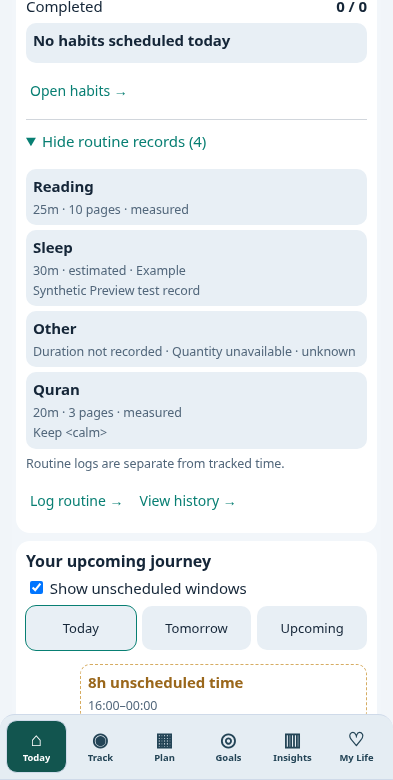
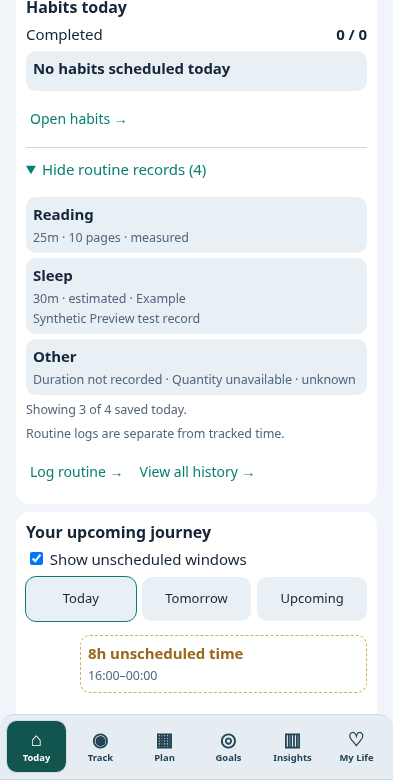
Make routine history accessible and readable

diff --git a/index.html b/index.html
@@ -3555,8 +3555,28 @@ $('scheduleForm').addEventListener('submit',addSchedule);$('scheduleList').addEv
   const plan=data.schedule.find(x=>String(x.id)===String(b.dataset.scheduleId));if(!plan)return;
   b.disabled=true;try{const result=await window.lifeosPlanSkip(String(plan.id),JSON.stringify(plan));$('scheduleAlert').textContent=result?.message||'Skip was not saved.';if(b.isConnected&&!result?.committed&&!result?.stale)b.disabled=false}catch(error){$('scheduleAlert').textContent='Skip could not be confirmed: '+String(error?.message||error);if(b.isConnected)b.disabled=false}
  }else scheduleAction(b.dataset.scheduleAct,b.dataset.scheduleId);
-});$('scheduleDay').addEventListener('change',renderSchedule);$('scheduleDay').value=localDate(now());$('scheduleStart').value=toInput(now()+3600000);$('scheduleEnd').value=toInput(now()+7200000);setInterval(checkScheduleReminders,30000);checkScheduleReminders();function renderPersonalLogs(){ensureModules();const list=(data.personalLogs||[]).filter(x=>x&&typeof x==='object');const today=localDate(now());const week=localDate(now()-6*86400000);const stats=window.LifeOSPersonalActivities.summary(list,week,today);$('personalLogSummary').textContent=`Last 7 dates: ${stats.records} logs · ${Object.entries(stats.byCategory).map(([name,v])=>name+': '+v.records).join(' · ')||'No records'}`;const progress=window.LifeOSPersonalProgress.summarize(list,week,today);const sleep=progress.sleep;const q=progress.quran;$('personalProgressSummary').textContent=`Quran: ${q.newPages} new page(s), ${q.revisionPages} revision page(s), ${q.days} day(s) logged${q.uncategorizedLogs?' · '+q.uncategorizedLogs+' log(s) without a recognized page type':''}. Sleep: ${sleep.measuredAverageMinutes===null?'no measured durations':Math.round(sleep.measuredAverageMinutes/60*10)/10+'h measured average ('+sleep.measuredCount+' log(s))'}; ${sleep.estimatedAverageMinutes===null?'no estimated durations':Math.round(sleep.estimatedAverageMinutes/60*10)/10+'h estimated average ('+sleep.estimatedCount+' log(s))'}.`; $('personalLogList').innerHTML=list.slice().reverse().slice(0,12).map(x=>`<div class="item"><div><strong>${escape(x.category)}</strong><div class="sub">${escape(x.date)} · ${x.minutes==null?'duration unknown':escape(x.minutes)+' min'} · ${escape(x.precision||'unknown')}${x.quantity==null?'':' · '+escape(x.quantity)+' '+escape(x.unit)}</div></div><button type="button" class="btn outline tiny" data-personal-delete="${escape(x.id)}">Delete</button></div>`).join('')||'<div class="empty">No personal routine logs yet.</div>'}
-$('personalLogDate').value=localDate(now());$('personalLogForm').addEventListener('submit',e=>{e.preventDefault();try{const val=id=>$(id).value.trim();const record=window.LifeOSPersonalActivities.createLog({id:uid(),category:val('personalLogCategory'),date:val('personalLogDate'),minutes:val('personalLogMinutes')===''?null:Number(val('personalLogMinutes')),quantity:val('personalLogQuantity')===''?null:Number(val('personalLogQuantity')),unit:val('personalLogUnit'),notes:val('personalLogNotes'),precision:val('personalLogPrecision')});data.personalLogs.push(record);if(!persist()){data.personalLogs.pop();return;}$('personalLogForm').reset();$('personalLogDate').value=localDate(now());renderPersonalLogs();}catch(err){alert(err.message)}});$('personalLogList').addEventListener('click',e=>{const b=e.target.closest('[data-personal-delete]');if(!b)return;if(!confirm('Delete this personal log?'))return;const i=data.personalLogs.findIndex(x=>x.id===b.dataset.personalDelete);if(i<0)return;const [removed]=data.personalLogs.splice(i,1);if(!persist()){data.personalLogs.splice(i,0,removed);return;}renderPersonalLogs()});renderPersonalLogs();
+});$('scheduleDay').addEventListener('change',renderSchedule);$('scheduleDay').value=localDate(now());$('scheduleStart').value=toInput(now()+3600000);$('scheduleEnd').value=toInput(now()+7200000);setInterval(checkScheduleReminders,30000);checkScheduleReminders();function renderPersonalLogs(){
+ ensureModules();
+ const list=(data.personalLogs||[]).filter(x=>x&&typeof x==='object');
+ const today=localDate(now()),week=localDate(now()-6*86400000);
+ const stats=window.LifeOSPersonalActivities.summary(list,week,today);
+ $('personalLogSummary').textContent=`Last 7 dates: ${stats.records} logs · ${Object.entries(stats.byCategory).map(([name,v])=>name+': '+v.records).join(' · ')||'No records'}`;
+ const progress=window.LifeOSPersonalProgress.summarize(list,week,today),sleep=progress.sleep,q=progress.quran;
+ $('personalProgressSummary').textContent=`Quran: ${q.newPages} new page(s), ${q.revisionPages} revision page(s), ${q.days} day(s) logged${q.uncategorizedLogs?' · '+q.uncategorizedLogs+' log(s) without a recognized page type':''}. Sleep: ${sleep.measuredAverageMinutes===null?'no measured durations':Math.round(sleep.measuredAverageMinutes/60*10)/10+'h measured average ('+sleep.measuredCount+' log(s))'}; ${sleep.estimatedAverageMinutes===null?'no estimated durations':Math.round(sleep.estimatedAverageMinutes/60*10)/10+'h estimated average ('+sleep.estimatedCount+' log(s))'}.`;
+ const history=$('personalLogList'),limit=Math.max(12,Number(history.dataset.visibleLimit)||12),shown=Math.min(list.length,limit);
+ const rows=list.slice().reverse().slice(0,limit).map(x=>`<div class="item"><div><strong>${escape(x.category)}</strong><div class="sub">${escape(x.date)} · ${x.minutes==null?'duration unknown':escape(x.minutes)+' min'} · ${escape(x.precision||'unknown')}${x.quantity==null?'':' · '+escape(x.quantity)+' '+escape(x.unit)}</div></div><button type="button" class="btn outline tiny" data-personal-delete="${escape(x.id)}" data-personal-snapshot="${escape(JSON.stringify(x))}">Delete</button></div>`).join('');
+ const paging=list.length>12?`<div class="sub" role="status">Showing ${shown} of ${list.length} records</div><div class="row">${shown<list.length?'<button type="button" class="btn outline" style="min-height:44px" data-personal-page="more">Show more records</button>':''}${limit>12?'<button type="button" class="btn outline" style="min-height:44px" data-personal-page="less">Show fewer records</button>':''}</div>`:'';
+ history.innerHTML=(rows||'<div class="empty">No personal routine logs yet.</div>')+paging;
+}
+$('personalLogDate').value=localDate(now());$('personalLogForm').addEventListener('submit',e=>{e.preventDefault();try{const val=id=>$(id).value.trim();const record=window.LifeOSPersonalActivities.createLog({id:uid(),category:val('personalLogCategory'),date:val('personalLogDate'),minutes:val('personalLogMinutes')===''?null:Number(val('personalLogMinutes')),quantity:val('personalLogQuantity')===''?null:Number(val('personalLogQuantity')),unit:val('personalLogUnit'),notes:val('personalLogNotes'),precision:val('personalLogPrecision')});data.personalLogs.push(record);if(!persist()){data.personalLogs.pop();return;}$('personalLogForm').reset();$('personalLogDate').value=localDate(now());renderPersonalLogs();}catch(err){alert(err.message)}});$('personalLogList').addEventListener('click',e=>{
+ const history=$('personalLogList'),page=e.target.closest('[data-personal-page]');
+ if(page){const more=page.dataset.personalPage==='more';history.dataset.visibleLimit=String(more?Math.max(12,Number(history.dataset.visibleLimit)||12)+12:12);renderPersonalLogs();(history.querySelector('[data-personal-page="more"]')||history.querySelector('[data-personal-page="less"]'))?.focus({preventScroll:true});return}
+ const b=e.target.closest('[data-personal-delete]');if(!b)return;
+ const matches=()=>data.personalLogs.filter(x=>x&&typeof x.id==='string'&&x.id!==''&&x.id===b.dataset.personalDelete);
+ const safe=found=>found.length===1&&JSON.stringify(found[0])===b.dataset.personalSnapshot;
+ const refuse=()=>{let message=history.querySelector('[data-personal-error]');if(!message){message=document.createElement('div');message.className='sub';message.dataset.personalError='';message.setAttribute('role','alert');history.prepend(message)}message.textContent='This record changed or has a missing or duplicated identifier. No record was deleted; reload and review your backup.'};
+ if(!safe(matches())){refuse();return}if(!confirm('Delete this personal log?'))return;const found=matches();if(!safe(found)){refuse();return}const i=data.personalLogs.indexOf(found[0]);const [removed]=data.personalLogs.splice(i,1);if(!persist()){data.personalLogs.splice(i,0,removed);return;}renderPersonalLogs()
+});renderPersonalLogs();
 $('bodyMetricsForm').addEventListener('submit',saveBodyMetrics);$('bodyMetricCancel').addEventListener('click',resetBodyMetricEditor);$('bodyMetricEditorHistory').addEventListener('click',handleBodyMetricAction);$('bodyGoalForm').addEventListener('submit',saveBodyGoal);$('loClearBodyGoal').addEventListener('click',clearBodyGoal);$('bodyMetricDate').value=localDate(now());$('fitnessForm').addEventListener('submit',e=>addStage3(e,'workouts'));$('loFNSeedAdd').addEventListener('click',loFNAdd);$('loFNSeedRemove').addEventListener('click',loFNRemove);$('mealForm').addEventListener('submit',e=>addStage3(e,'meals'));$('goalForm').addEventListener('submit',addGoal);for(const [element,kind] of [['fitnessList','workouts'],['mealList','meals'],['goalList','goals']])$(element).addEventListener('click',e=>{const b=e.target.closest('[data-delete]');if(b)deleteStage3(kind,b.dataset.delete)});$('weeklyCapacity').addEventListener('input',renderGoalReview);$('reviewRecovery').addEventListener('change',renderGoalReview);$('goalReview').addEventListener('click',e=>{const b=e.target.closest('[data-goal-approve]');if(b)approveGoal(b.dataset.goalApprove,Number(b.dataset.target))});$('fitnessDate').value=localDate(now());$('mealDate').value=localDate(now());$('connectSync').onclick=connect;$('pullSync').onclick=pull;$('pushSync').onclick=manualUpload;
 // Hook writes without changing the existing timer engine. Local save always happens first.
 // Stage 21: one-key atomic commit for workspace + offline journal.
@@ -4162,7 +4182,7 @@ function schedule(){setTimeout(install,60)}
 document.addEventListener('DOMContentLoaded',()=>{schedule();document.getElementById('loLifeSectionTabs')?.addEventListener('click',schedule);document.getElementById('lifeosNavigation')?.addEventListener('click',schedule)});
 window.addEventListener('hashchange',schedule);
 })();
-</script><link rel="stylesheet" href="personal_my_life_focus_v190.css?v=v1-life-light-1"><script src="personal_my_life_focus_v190.js?v=20261117-v195b" defer></script><script src="personal_cross_section_integrity_v206.js?v=20261118-v226" defer></script><script src="personal_gap_review_v207.js?v=20261118-v225" defer></script><script src="personal_prayer_insights_v207.js?v=20261118-v207" defer></script><script src="personal_alert_engine_v221.js?v=20261118-v221" defer></script><script src="personal_focus_alarm_v207.js?v=20261120-v271" defer></script><link rel="stylesheet" href="personal_weekly_averages_v208.css?v=20261118-v208"><script src="personal_weekly_averages_v208.js?v=20261118-v208" defer></script><link rel="stylesheet" href="personal_activity_insights_v209.css?v=20261118-v209"><script src="personal_activity_insights_v209.js?v=20261118-v209" defer></script><style id="lo197-style">
+</script><link rel="stylesheet" href="personal_my_life_focus_v190.css?v=v1-life-light-2"><script src="personal_my_life_focus_v190.js?v=20261117-v195b" defer></script><script src="personal_cross_section_integrity_v206.js?v=20261118-v226" defer></script><script src="personal_gap_review_v207.js?v=20261118-v225" defer></script><script src="personal_prayer_insights_v207.js?v=20261118-v207" defer></script><script src="personal_alert_engine_v221.js?v=20261118-v221" defer></script><script src="personal_focus_alarm_v207.js?v=20261120-v271" defer></script><link rel="stylesheet" href="personal_weekly_averages_v208.css?v=20261118-v208"><script src="personal_weekly_averages_v208.js?v=20261118-v208" defer></script><link rel="stylesheet" href="personal_activity_insights_v209.css?v=20261118-v209"><script src="personal_activity_insights_v209.js?v=20261118-v209" defer></script><style id="lo197-style">
 /* LifeOS V197: one consolidated My Life Friends/Challenges workspace */
 body[data-lifeos-view="life"] #lo197-challenges{color:#e7f8f2;font-family:system-ui,sans-serif;padding:8px 0 14px}
 #lo197-challenges .lo197-head{margin:0 0 13px;display:flex;gap:10px;justify-content:space-between;align-items:flex-start}
@@ -5960,8 +5980,8 @@ function render(force=false){
  const dueHabits=(habits.habitDefinitions||[]).filter(h=>{const begin=h.startDate||(h.createdAt?new Date(h.createdAt).toLocaleDateString('sv-SE'):todayKey),diff=Math.round((todayNoon-atNoon(begin))/86400000),every=Number(h.everyDays)||1;return Number.isFinite(diff)&&diff>=0&&every>0&&diff%every===0});
  const habitRows=dueHabits.slice(0,3).map(h=>{const check=(habits.habitChecks||[]).find(c=>String(c.habitId)===String(h.id)&&c.date===todayKey),title=h.title||'Habit';return '<div class="ap-v1-agenda-task"><label><input type="checkbox" data-ap-live-habit="'+esc(h.id)+'" data-ap-habit-day="'+todayKey+'" data-ap-habit-revision="'+esc(JSON.stringify(check||null))+'" '+(check?.done?'checked':'')+' aria-label="'+(check?.done?'Undo completion of ':'Complete ')+esc(title)+'"><span class="'+(check?.done?'ap-v1-done':'')+'">'+esc(title)+'</span></label><button type="button" data-ap-live-quick="habits" aria-label="Review '+esc(title)+'">›</button></div>'}).join('');
  const hasValue=x=>x!==null&&x!==undefined&&!(typeof x==='string'&&x.trim()===''),knownNumber=x=>hasValue(x)&&(typeof x==='number'||typeof x==='string')&&Number.isFinite(Number(x))&&Number(x)>=0;
- const routineRows=(d.routines||[]).slice().reverse().map(x=>{const description=[!hasValue(x.minutes)?'Duration not recorded':knownNumber(x.minutes)&&Number.isFinite(Number(x.minutes)*60000)?dur(Number(x.minutes)*60000):'Duration unavailable',!hasValue(x.quantity)?null:knownNumber(x.quantity)?String(x.quantity)+(x.unit?' '+x.unit:''):'Quantity unavailable',x.precision?String(x.precision):null,x.example?'Example':null].filter(Boolean).join(' · ');return '<div class="ap-item ap-v1-routine-record"><strong>'+esc(x.category||'Routine')+'</strong><small>'+esc(description)+'</small>'+(x.notes?'<small>'+esc(x.notes)+'</small>':'')+'</div>'}).join('');
- const routineRecords='<details class="ap-v1-routines"><summary>Show routine records ('+(d.routines||[]).length+')</summary>'+(routineRows||'<small>No routine records today.</small>')+'<small>Routine logs are separate from tracked time.</small><div class="ap-v1-routine-actions"><button class="ap-link" type="button" data-ap-live-quick="routine">Log routine →</button>'+((d.routines||[]).length?'<button class="ap-link" type="button" data-ap-live-quick="routine-history">View history →</button>':'')+'</div></details>';
+ const allRoutines=(d.routines||[]).slice().reverse(),routineRows=allRoutines.slice(0,3).map(x=>{const description=[!hasValue(x.minutes)?'Duration not recorded':knownNumber(x.minutes)&&Number.isFinite(Number(x.minutes)*60000)?dur(Number(x.minutes)*60000):'Duration unavailable',!hasValue(x.quantity)?null:knownNumber(x.quantity)?String(x.quantity)+(x.unit?' '+x.unit:''):'Quantity unavailable',x.precision?String(x.precision):null,x.example?'Example':null].filter(Boolean).join(' · ');return '<div class="ap-item ap-v1-routine-record"><strong>'+esc(x.category||'Routine')+'</strong><small>'+esc(description)+'</small>'+(x.notes?'<small>'+esc(x.notes)+'</small>':'')+'</div>'}).join('');
+ const routineRecords='<details class="ap-v1-routines"><summary>Show routine records ('+allRoutines.length+')</summary>'+(routineRows||'<small>No routine records today.</small>')+(allRoutines.length>3?'<small>Showing 3 of '+allRoutines.length+' saved today.</small>':'')+'<small>Routine logs are separate from tracked time.</small><div class="ap-v1-routine-actions"><button class="ap-link" type="button" data-ap-live-quick="routine">Log routine →</button>'+(allRoutines.length?'<button class="ap-link" type="button" data-ap-live-quick="routine-history">View all history →</button>':'')+'</div></details>';
  const agendaHabits=card('Habits today',row('Completed',dueHabits.filter(h=>habitChecks.has(String(h.id))).length+' / '+dueHabits.length)+(habitRows||item('No habits scheduled today',''))+'<p id="apHabitMessage" class="ap-v1-habit-message" role="status">'+esc(habitMessage)+'</p><button class="ap-link" type="button" data-ap-live-quick="habits">'+(dueHabits.length>3?'View all habits':'Open habits')+' →</button>'+routineRecords);
  set(0,'<div class="ap-v1-pair">'+card('Day progress','<div class="ap-v1-day-summary">'+dayRing+'<div>'+metric(dur(m.elapsed),'Elapsed')+metric(dur(m.remaining),'Remaining')+'</div></div>')+glance+'</div><div class="ap-v1-current">'+nowCard+'</div><div class="ap-v1-pair">'+progress+distribution+'</div><div class="ap-v1-pair">'+lifeAreas+dailyIntel+'</div>'+quick+card('Your day, in four parts',grid(['Morning','Afternoon','Evening','Night'].map((n,i)=>'<button data-ap-live-part="'+i+'" class="'+(i===part?'ap-selected':'')+'"><span class="ap-part-icon">'+['☀','◐','☾','✦'][i]+'</span><strong>'+partRows[i].length+'</strong><small>'+n+'</small></button>'),'ap-four')+ (partRows[part].map(activity).join('')||item('No recorded activities','')))+card('Next on your agenda',future.slice(0,2).map(x=>row(esc(x.name),clock(x.startAt))).join('')||item('No upcoming commitments',''))+card('Your priorities',(tasks[0]?task(tasks[0]):item('No open tasks',''))+link('View tasks',2)));
  {

diff --git a/personal_my_life_focus_v190.css b/personal_my_life_focus_v190.css
@@ -7,6 +7,13 @@ html[data-lifeos-theme="light"] body[data-lifeos-view="life"] .panel .lo190-head
 html[data-lifeos-theme="light"] body[data-lifeos-view="life"] .panel .lo190-heading span{color:#405f73}
 html[data-lifeos-theme="light"] body[data-lifeos-view="life"] #lifeosNutritionDashboard .lo25-stat{background:#e6edf5;border-color:#cbdbe7;color:#183047}
 html[data-lifeos-theme="light"] body[data-lifeos-view="life"] #lifeosNutritionDashboard .lo25-stat small{color:#405f73}
+html[data-lifeos-theme="light"] body[data-lifeos-view="life"] .lo189-routine-history{background:#f5faf9;border-color:#b5d0ca;color:#183047}
+html[data-lifeos-theme="light"] body[data-lifeos-view="life"] .lo189-routine-history>summary{color:#075e54}
+html[data-lifeos-theme="light"] body[data-lifeos-view="life"] .lo189-routine-history #personalProgressSummary,
+html[data-lifeos-theme="light"] body[data-lifeos-view="life"] .lo189-routine-history #personalLogList .sub{color:#405a70;opacity:1}
+html[data-lifeos-theme="light"] body[data-lifeos-view="life"] .lo189-routine-history #personalLogList .item strong{color:#183047}
+html[data-lifeos-theme="light"] body[data-lifeos-view="life"] .lo189-routine-history #personalLogList .item{border-color:#cbded8}
+html[data-lifeos-theme="light"] body[data-lifeos-view="life"] .lo189-routine-history #personalLogList button{background:#e9f2f1;color:#183047;border-color:#a7c5c0;opacity:1}
 body[data-lifeos-view="life"] .lo190-actions{display:flex;gap:8px;overflow-x:auto;scrollbar-width:none;padding:2px 1px}
 body[data-lifeos-view="life"] .lo190-actions button{flex:0 0 auto;min-height:42px;padding:9px 13px;border:1px solid #355d70;border-radius:12px;background:#10283a;color:#e7f5f8;font:650 13px system-ui;cursor:pointer}
 body[data-lifeos-view="life"] .lo190-actions button.lo190-primary{background:#006b54;border-color:#17826c;color:#fff}

diff --git a/docs/TESTING.md b/docs/TESTING.md
@@ -2,7 +2,7 @@
 
 All browser fixtures in `tests/today-v250*.cjs`, `tests/plan-overview.cjs` and `scripts/capture-design-baselines.cjs` intercept requests: local repository assets are served to an isolated Preview-origin browser context, and other requests are blocked/fulfilled offline. They never need a real account or user history.
 
-`tests/authenticated-isolated-v1.cjs` is different: it starts a temporary local Python server with a new random login and sync token and a new temporary SQLite file, blocks nonlocal browser requests, and uses real login, recovery and sync HTTP endpoints with synthetic records. It verifies the recovery downloads before explicitly restoring the fixture, then exercises a partial gap, History, a task change, server readback and reload. It captures all current primary tabs in dark/light when `AUTH_V1_CAPTURE_DIR` is set. The temporary database and files are removed in `finally`. This is not the Render database, a production account, a native-device test or a complete cross-device sync certification. Some behavior guarded by the Preview hostname is not exercised on localhost.
+`tests/authenticated-isolated-v1.cjs` is different: it starts a temporary local Python server with a new random login and sync token and a new temporary SQLite file, blocks nonlocal browser requests, and uses real login, recovery and sync HTTP endpoints with synthetic records. It verifies the recovery downloads before explicitly restoring the fixture, then exercises a partial gap, History, a task change, server readback and reload. It also simulates an empty server response for a populated device, first with pending changes and then after the queue has been acknowledged; it checks that loading and stale uploads do not replace the local workspace or write to the simulated empty server. The real temporary server remains intact during that simulation. It captures all current primary tabs in dark/light when `AUTH_V1_CAPTURE_DIR` is set. The temporary database and files are removed in `finally`. This is not the Render database, a production account, a native-device test or a complete cross-device sync certification. Some behavior guarded by the Preview hostname is not exercised on localhost.
 
 With Node and Playwright/Chromium installed, from the repository root:
 
@@ -91,7 +91,7 @@ The repeated-plan consent fixture exercises the visible occurrence preview, canc
 
 The browser reminder fixture checks skipped, completed, linked and duplicate-ID commitments, a queued plan skipped while another reminder is visible, retraction of a visible reminder, continued reminders for eligible plans, snooze, and actual Start now timer creation. It verifies both on-screen prompts remain operable at 360×460 and captures a synthetic screenshot with `REMINDER_CAPTURE=1`. Browser notification calls are intercepted; this does not test Android system notifications or the lock screen.
 
-The Today V1 fixture checks record-based overview values and navigation into existing editors, partial-period union accounting, category drill-down, proportional overlap lanes, short interval access, cancelled-plan exclusion, task completion and reload persistence, light mode and browser viewport clearance. Review assertions verify category bars against raw duration, full accessible labels, touch target height, intelligence order and selected light-mode text contrast. The Agenda routines fixture checks local-day selection and rollover, empty and explicitly marked example records, safe display of malformed imported values, existing form and history navigation, a single save and reload, unchanged time-accounting metrics and several browser viewport sizes. The separate authenticated replica also checks routine history after the guarded server restore. With capture enabled these write synthetic images under `docs/design/today/current/release-*.png`. Reference comparison notes and remaining discrepancies are in `docs/design/today/COMPARISON.md`.
+The Today V1 fixture checks record-based overview values and navigation into existing editors, partial-period union accounting, category drill-down, proportional overlap lanes, short interval access, cancelled-plan exclusion, task completion and reload persistence, light mode and browser viewport clearance. Review assertions verify category bars against raw duration, full accessible labels, touch target height, intelligence order and selected light-mode text contrast. The Agenda routines fixture checks local-day selection and rollover, empty and explicitly marked example records, safe display of malformed imported values, existing form and history navigation, paging through 32 records without mutation, rejection of a duplicated identifier and a deliberately stale displayed snapshot, cancellation and confirmation of one synthetic deletion, a single save and reload, unchanged time-accounting metrics, targeted light-mode history contrast and several browser viewport sizes. The separate authenticated replica also checks routine history after the guarded server restore. With capture enabled these write synthetic images under `docs/design/today/current/release-*.png` and `docs/design/my-life/current/v1-subsection-routine-history-*.png`. Reference comparison notes and remaining discrepancies are in `docs/design/today/COMPARISON.md`.
 
 The Today Agenda habit fixture checks scheduled and unscheduled habits, completion and undo from Today and My Life, retention of linked evidence, opt-in automatic-check dismissal, stale and duplicate checks, failed checkpoint writes, reload persistence, light-mode controls and reduced browser heights. It uses only synthetic, offline records. `TODAY_AGENDA_CAPTURE=1` saves dark and light browser screenshots; it does not verify Android input or system insets.
 

diff --git a/docs/design/today/COMPARISON.md b/docs/design/today/COMPARISON.md
@@ -6,7 +6,7 @@ The supplied design screenshots are targets, with illustrative numbers. Current 
 | --- | --- | --- | --- |
 | Overview | [Individual overview](reference/Overview.png) | [Viewport](current/release-overview.png) · [Full page](current/release-overview-full.png) · [Light](current/release-overview-light.png) | Paired day progress and glance cards, live controls, plan progress, distribution and quick actions are present. Life-area rows use saved activity, habit and routine evidence. The reference uses more compact controls and more iconography; scores with no defined evidence source are not invented. Extra bottom clearance is provided for the floating timer, which can still cover content while scrolling. |
 | Timeline | [Individual timeline](reference/Timeline.png) | [Viewport](current/release-timeline.png) · [Full page](current/release-timeline-full.png) · [Previous day](current/release-timeline-previous-day.png) | Category colors, proportional lanes, six-hour selector, accessible short-item list and selected-period accounting are present. Planned blocks use an outlined treatment; a browser date input and previous/next-day controls navigate recorded local days, and Now returns to the current day. The tighter reference layout and native Android date-picker behavior remain to be checked. |
-| Agenda | [Section board](reference/Full_section_board.png) | [Viewport](current/release-agenda.png) · [Full page](current/release-agenda-full.png) · Habit checklist [dark](current/release-agenda-habits-dark.png) / [light](current/release-agenda-habits-light.png) · Routine records [dark](current/release-agenda-routines-dark.png) / [light](current/release-agenda-routines-light.png) | Next commitment, task completion, upcoming journey and unverified commitments use real records. Scheduled habits can be checked inline; saved routine logs are separately inspectable with links to existing logging and history. A log is not evidence that a scheduled routine was completed. The board's integrated routine checklist and compact layout are not yet matched. |
+| Agenda | [Section board](reference/Full_section_board.png) | [Viewport](current/release-agenda.png) · [Full page](current/release-agenda-full.png) · Habit checklist [dark](current/release-agenda-habits-dark.png) / [light](current/release-agenda-habits-light.png) · Routine records [dark](current/release-agenda-routines-dark.png) / [light](current/release-agenda-routines-light.png) · History paging [dark](../my-life/current/v1-subsection-routine-history-dark.png) / [light](../my-life/current/v1-subsection-routine-history-light.png) | Next commitment, task completion, upcoming journey and unverified commitments use real records. Scheduled habits can be checked inline; the three latest saved routine logs and total count are separately inspectable, with links to existing logging and progressively revealed history. A log is not evidence that a scheduled routine was completed. The board's integrated routine checklist and compact layout are not yet matched. |
 | Review | [Section board](reference/Full_section_board.png) | [Viewport](current/release-review.png) · [Previous day](current/release-review-previous-day.png) · [Light](current/release-review-light.png) · [Full page](current/release-review-full.png) | Summary, compact category bars and drill-down, unlogged review and concurrent activity details are present. Review and Timeline share local-day navigation; past commitments can be inspected and past gaps logged. Daily intelligence appears earlier. The page remains longer than the reference, and native date-picker, presentation and complete light-theme contrast still need verification. |
 | Activity details | [Supporting board](reference/Supporting_screens.png) | [Current details](current/activity-details.png) | Existing V250 detail and correction controls are retained; compare its remaining differences during focused device review. |
 | Gap entry | [Supporting board](reference/Supporting_screens.png) | [Current gap form](current/gap-entry.png) | Existing partial/full gap workflow and validation are retained; this capture predates the V1 layout changes. |

diff --git a/docs/KNOWN_ISSUES.md b/docs/KNOWN_ISSUES.md
@@ -10,11 +10,11 @@ Next native investigation: collect device/API level, gesture versus three-button
 
 The user supplied a V1 release package with individual Today Overview and Timeline targets, Track references, all five Plan targets, remaining-section references and supporting boards. They are indexed in `docs/design/release-v1/` and `docs/design/today/reference/`. Agenda and Review are represented on supporting boards rather than individual Today reference files. The original historical approval provenance remains unconfirmed. Reference availability does not establish visual or device acceptance; see `docs/design/today/COMPARISON.md` and the remaining sections’ comparisons.
 
-Today Agenda's scheduled habit checklist can be operated inline. Saved routine logs are now shown separately with links to the existing My Life logging form and recent history; that history currently displays at most the latest 12 records. A scheduled routine checklist has not been implemented. Agenda and Review remain longer than the supplied section-board designs. Their compact layout, full light-theme contrast and physical-device presentation need further work and review.
+Today Agenda's scheduled habit checklist can be operated inline. Saved routine logs are shown separately with links to the existing My Life logging form and history; the history can show additional records in batches of 12 in reverse saved order, with targeted light-mode contrast checks. Deletion refuses a changed record or missing/duplicated identifier; an in-app repair for affected identifiers is not yet available. A scheduled routine checklist has not been implemented. Agenda and Review remain longer than the supplied section-board designs. Their compact layout, full light-theme contrast and physical-device presentation need further work and review.
 
 ## Storage
 
-Preview startup reports SQLite and no persistent disk is visible in service metadata; server-side durability is unverified. The separate disposable staging PostgreSQL metadata lists expiry on 8 December 2026 at 06:15 UTC. See `docs/DEPLOYMENT.md`; no assumption has been made about which application uses that database.
+Preview startup reports SQLite and Render identifies the service as free. Render documents persistent disks as paid and local files as ephemeral without one; no disk is visible in service metadata, and the service event query shows no disk changes since January 2026. Preview server state could be lost on redeploy; the state before the `f9ab123` deploy and any resulting loss are unknown. Further pushes to this auto-deploy branch need durable isolated Preview storage or a verified recovery backup and safe deployment procedure. The separate disposable staging PostgreSQL metadata lists expiry on 8 December 2026 at 06:15 UTC. See `docs/DEPLOYMENT.md`; no assumption has been made about which application uses that database.
 
 ## Remaining evidence
 

diff --git a/docs/DEPLOYMENT.md b/docs/DEPLOYMENT.md
@@ -12,6 +12,8 @@ git ls-remote origin refs/heads/today-a-plus-rebuild
 gh run list --repo Abdialin/lifeos-personal-fresh --branch today-a-plus-rebuild --commit "$(git rev-parse HEAD)"
 ```
 
-On 26 November 2026 the Preview service reported SQLite (`LIFEOS_DB`) in startup logs and no persistent disk in returned service metadata. Its durability across restarts/deploys is unverified. The separate `lifeos-personal-staging-disposable` PostgreSQL instance was available with expiry **2026-12-08 06:15 UTC**; the service-to-database connection has not been established. Recheck current state before relying on either. Do not move personal data or change infrastructure to resolve this without authorization.
+On 27 November 2026 the Preview service again reported SQLite (`LIFEOS_DB`) in startup logs. Render reports the service on its free plan; its [disk documentation](https://render.com/docs/disks) says persistent disks require a paid service and local filesystem changes are lost on redeploy without a disk. Returned service metadata did not show a persistent disk, and the service event query returned no disk creation, update or deletion since January 2026. The Docker image defaults to `/data/lifeos.sqlite3`, but a runtime override has not been inspected. The deployment of `f9ab12379593f76af387fc210ff4b7578c343437` occurred before this risk was re-evaluated; the pre-deployment state and any loss are unknown. Do not push another commit to this auto-deploy branch until durable isolated Preview storage or a verified, recoverable backup and safe deployment procedure are established. Do not change production or copy personal data to Preview. The separate `lifeos-personal-staging-disposable` PostgreSQL instance was available with expiry **2026-12-08 06:15 UTC**; the service-to-database connection has not been established. Do not migrate data or alter infrastructure without a reviewed isolation and recovery plan.
+
+A disposable local-server test simulates an empty server response against a populated browser workspace, with and without a pending journal. In that synthetic scenario, loading does not replace local records and stale uploads are blocked; this does not establish the state of any real device or recover server-side records. Preserve existing app data and backups while the Preview storage path is investigated.
 
 `android-companion/` uses distinct beta/Preview package identities and a permanent signing workflow described in `android-companion/SIGNING_AND_SAFE_UPDATES_V238.md`. A web-only commit should not trigger an APK build; the Android workflow is path-filtered. Never rotate signing keys, alter application identity, or uninstall/clear an existing app as a routine fix. Production promotion requires separate user approval.

diff --git a/docs/DEVELOPMENT_STATUS.md b/docs/DEVELOPMENT_STATUS.md
@@ -38,7 +38,7 @@ History now groups a session's same-day segments without altering its saved reco
 
 ## Today: current work
 
-Agenda can now show the selected day's saved routine logs separately from scheduled habit checks, with links to the existing My Life log form and recent history. Empty and malformed values remain unknown or unavailable; example records are labeled where the source marks them. The change does not add routine duration to tracked time or infer missed routines. Routine history also refreshes after workspace restoration. Synthetic dark/light browser captures and local regression coverage are documented in `docs/design/today/COMPARISON.md`; the specified scheduled routine checklist, full visual acceptance and device checks remain open.
+Agenda can now show up to three of the selected day's saved routine logs separately from scheduled habit checks, with the full count and links to the existing My Life log form and history. History can progressively reveal all saved records in batches of 12 and refreshes after workspace restoration. Empty and malformed values remain unknown or unavailable; example records are labeled where the source marks them. The change does not add routine duration to tracked time or infer missed routines. Synthetic dark/light browser captures and local regression coverage are documented in `docs/design/today/COMPARISON.md`; the specified scheduled routine checklist, full visual acceptance and device checks remain open.
 
 The V250 foundation added interactive recorded, planned, active and gap details, gap logging through Track's existing form, overlap review and separate raw-time metrics. A follow-up restored known Preview sample categories without changing saved sample records. The user reported that timeline entries are selectable and the gap form opens on Android; that is not acceptance of all V250 requirements.
 
